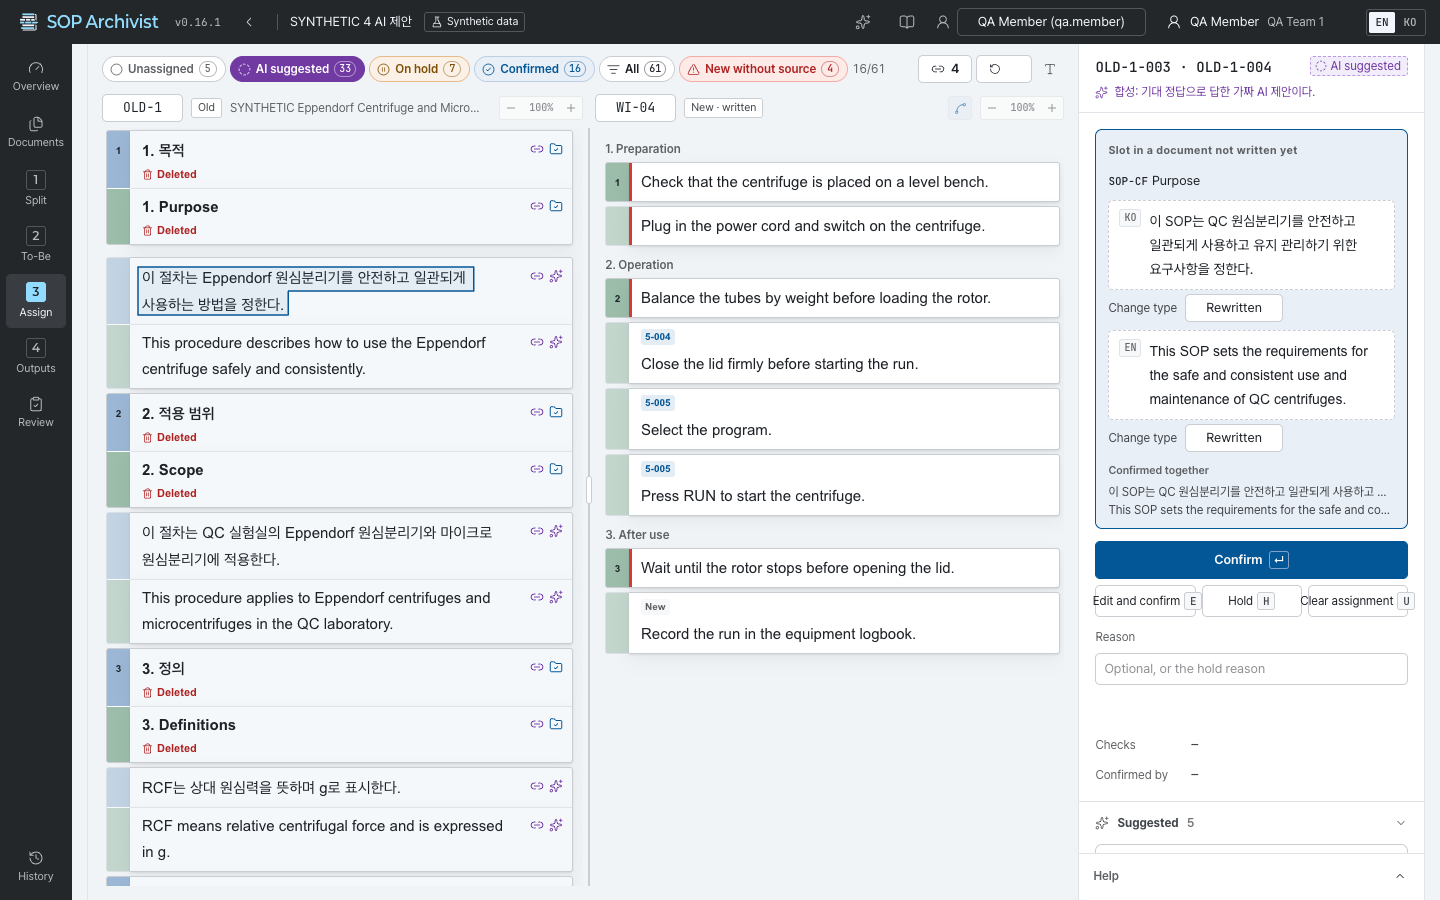
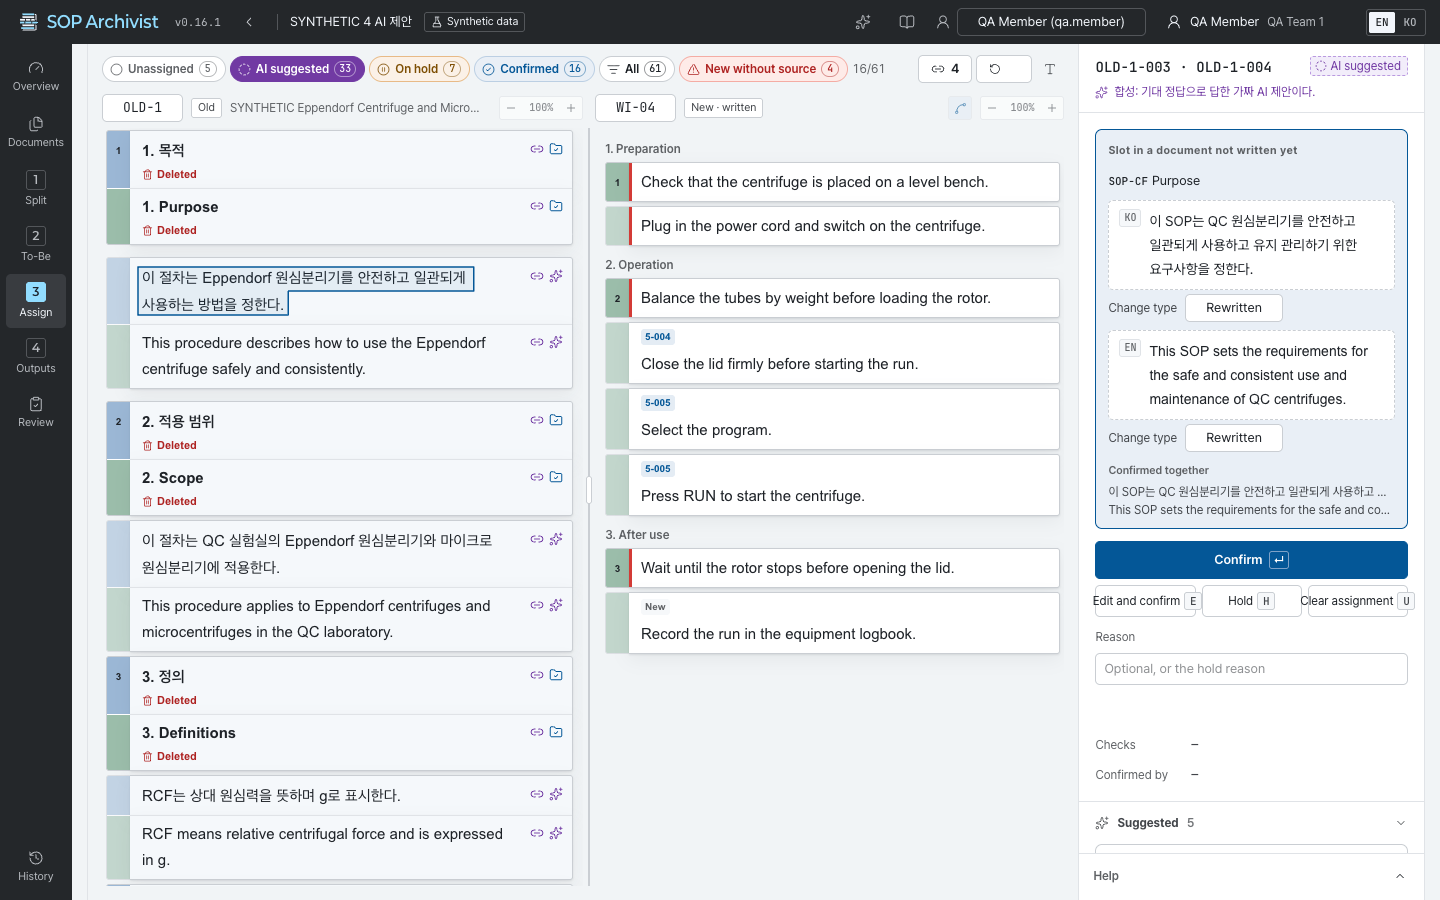
feat(assign): accent link lines that meet the boxes without dots — 연결선 강조 파랑·상자 테두리에 맞닿게
The teal-grey lines at 22% were hard to see. The user picked the accent blue mock-up (same color
as the link badge and source chips) and asked for the ends to stop at the box edges at the
chip/badge height instead of reaching into the chip, with no end dots. The chip-routing path
collapses to a single S-curve between the two box edges, and the unused --link-line token goes.

시안 B(배지·출처 칩과 같은 강조 파랑)로, 끝은 출처 칩·배지 높이에서 두 상자 테두리에 점 없이 맞닿는다.

Claude-Session: https://claude.ai/code/session_01YNNLvBNgNFiUZ73gyxco3h

Changed region(s): [[0.0625, 0.4356, 0.4062, 0.9956], [0.3438, 0.4356, 0.4062, 0.4667], [0.375, 0.6533, 0.4062, 0.6844]]

diff --git a/frontend/src/components/assign/link-lines.tsx b/frontend/src/components/assign/link-lines.tsx
@@ -1,4 +1,4 @@
-// Assign 두 문서 사이 이음 - 마우스를 올린 조각의 맞은편을 강조하고, 양쪽 끝이 다 보이는 이음만 옅은 선으로 그린다(Old 배지 → New 출처 칩 왼쪽, 길은 link-route-model).
+// Assign 두 문서 사이 이음 - 마우스를 올린 조각의 맞은편을 강조하고, 양쪽 끝이 다 보이는 이음만 옅은 선으로 그린다(Old 조각 오른쪽 바깥 배지 높이 → New 문단 상자 왼쪽 바깥 출처 칩 높이, 길은 link-route-model).
 // 강조 표시는 React 상태가 아니라 DOM 속성(data-link-hover)으로 단다 - Old 원문 조각이 수천 개일 때 올릴 때마다 용지 전체를 다시 그리지 않게.
 // 선은 스크롤·크기 변경·확대·세로선 끌기마다 다시 재되 한 프레임에 한 번으로 묶는다.
 "use client";
@@ -28,10 +28,6 @@ interface Hover {
 interface DrawnLine {
   key: string;
   d: string;
-  x1: number;
-  y1: number;
-  x2: number;
-  y2: number;
   strong: boolean;
   draft: boolean;
 }
@@ -124,30 +120,20 @@ export function LinkLines({ pairs, focusUnits, focusTargets, visible }: LinkLine
       const newEl = findNewLine(root, pair.targetId);
       const rowEl = newEl?.closest<HTMLElement>(".strip-row");
       if (!oldEl || !newEl || !rowEl) continue;
-      // 시작 - 배지(조각 오른쪽 아래)의 오른쪽 끝, 배지가 없으면(고르는 중인 이음) 조각 오른쪽 끝 첫 줄
+      // 두 끝 모두 상자 바깥 테두리 - 선이 배지·칩을 찌르지 않고 그 높이에서 상자에 닿는다
+      // 시작 - Old 조각 오른쪽 끝, 연결 배지(조각 오른쪽 아래) 높이. 배지가 없으면(고르는 중인 이음) 첫 줄 높이
       const badge = oldEl.querySelector<HTMLElement>("[data-link-badge]");
       const oldRect = oldEl.getBoundingClientRect();
       const badgeRect = badge?.getBoundingClientRect();
-      const start = badgeRect ? { x: badgeRect.right, y: badgeRect.top + badgeRect.height / 2 } : { x: oldRect.right, y: readAnchorY(oldRect) };
-      // 끝 - 출처 칩 왼쪽 가운데, 칩이 없으면(아직 출처가 아닌 후보) 줄 왼쪽 끝 첫 줄
-      const chip = findSourceChip(newEl, pair.unitId);
+      const start = { x: oldRect.right, y: badgeRect ? badgeRect.top + badgeRect.height / 2 : readAnchorY(oldRect) };
+      // 끝 - New 줄(탭 포함) 왼쪽 끝, 출처 칩 높이. 칩이 없으면(아직 출처가 아닌 후보) 첫 줄 높이
+      const chipRect = findSourceChip(newEl, pair.unitId)?.getBoundingClientRect();
       const rowRect = rowEl.getBoundingClientRect();
-      const chipRect = chip?.getBoundingClientRect();
-      const end = chipRect ? { x: chipRect.left, y: chipRect.top + chipRect.height / 2 } : { x: rowRect.left, y: readAnchorY(rowRect) };
+      const end = { x: rowRect.left, y: chipRect ? chipRect.top + chipRect.height / 2 : readAnchorY(rowRect) };
       // 양쪽 끝이 다 보일 때만 - 한쪽이 스크롤 밖이면 선이 문서 머리나 화면 밖으로 뻗는다
       if (start.y < oldFrame.top || start.y > oldFrame.bottom || end.y < newFrame.top || end.y > newFrame.bottom) continue;
       const shift = (point: { x: number; y: number }) => ({ x: point.x - base.left, y: point.y - base.top });
-      const a = shift(start);
-      const b = shift(end);
-      const d = buildLinkPath(a, {
-        end: b,
-        chipTop: (chipRect?.top ?? end.y) - base.top,
-        chipBottom: (chipRect?.bottom ?? end.y) - base.top,
-        rowLeft: rowRect.left - base.left,
-        rowTop: rowRect.top - base.top,
-        isFirst: !chip || chip.previousElementSibling === null,
-      });
-      next.push({ key: `${pair.unitId}:${pair.targetId}`, d, x1: a.x, y1: a.y, x2: b.x, y2: b.y, strong: pair.strong, draft: pair.draft });
+      next.push({ key: `${pair.unitId}:${pair.targetId}`, d: buildLinkPath(shift(start), shift(end)), strong: pair.strong, draft: pair.draft });
     }
     setLines((prev) => (JSON.stringify(prev) === JSON.stringify(next) ? prev : next));
   });
@@ -223,8 +209,6 @@ export function LinkLines({ pairs, focusUnits, focusTargets, visible }: LinkLine
       {lines.map((line) => (
         <g key={line.key} data-strong={line.strong ? "" : undefined} data-draft={line.draft ? "" : undefined}>
           <path d={line.d} />
-          <circle cx={line.x1} cy={line.y1} r={2.5} />
-          <circle cx={line.x2} cy={line.y2} r={2.5} />
         </g>
       ))}
     </svg>

diff --git a/frontend/src/lib/link-route-model.test.ts b/frontend/src/lib/link-route-model.test.ts
@@ -1,46 +1,34 @@
-// Assign 연결선 경로 - 맨 왼쪽 칩은 옆에서, 나머지는 위 틈이나 칩 줄 아래로 들어와 칩 왼쪽에서 끝난다.
+// Assign 연결선 경로 - 두 상자 바깥 테두리 사이의 S자, 두 끝에서 가로로 나고 들어간다.
 import { describe, expect, it } from "vitest";
 
-import { buildLinkPath, type RouteTarget } from "./link-route-model";
+import { buildLinkPath } from "./link-route-model";
 
-const target = (patch: Partial<RouteTarget>): RouteTarget => ({
-  end: { x: 300, y: 108 },
-  chipTop: 100,
-  chipBottom: 116,
-  rowLeft: 220,
-  rowTop: 94,
-  isFirst: false,
-  ...patch,
-});
-
-/** 경로에서 직선(L) 점만 뽑는다 */
-function readLinePoints(d: string): Array<[number, number]> {
-  return [...d.matchAll(/L(-?[\d.]+) (-?[\d.]+)/g)].map((m) => [Number(m[1]), Number(m[2])]);
+/** "M x y C c1x c1y c2x c2y x y"를 숫자 여덟 개로 */
+function readNumbers(d: string): number[] {
+  return [...d.matchAll(/-?[\d.]+/g)].map((m) => Number(m[0]));
 }
 
 describe("buildLinkPath", () => {
-  it("enters the first chip straight from the side at the chip's height", () => {
-    const d = buildLinkPath({ x: 100, y: 300 }, target({ isFirst: true }));
+  it("starts at the Old box edge and ends at the New box edge", () => {
+    const d = buildLinkPath({ x: 100, y: 300 }, { x: 160, y: 108 });
+    const n = readNumbers(d);
     expect(d.startsWith("M100 300C")).toBe(true);
-    // 띠(줄 왼쪽 4px 앞)에서 칩 높이로 맞춘 뒤 칩 왼쪽까지 가로로
-    expect(d).toContain(" 216 108L300 108");
+    expect(n.slice(-2)).toEqual([160, 108]);
   });
 
-  it("comes through the gap above the paragraph when the Old badge is higher", () => {
-    const d = buildLinkPath({ x: 100, y: 20 }, target({}));
-    const points = readLinePoints(d);
-    // 위 틈 y = 줄 위 끝 - 2, 칩 왼쪽 5px 앞에서 아래로 꺾고 칩 왼쪽에서 끝난다
-    expect(points[0]).toEqual([292, 92]);
-    expect(points.at(-1)).toEqual([300, 108]);
-    expect(d).toContain("Q295 92 295 95");
+  it("leaves and arrives horizontally, bending only between the two boxes", () => {
+    const n = readNumbers(buildLinkPath({ x: 100, y: 300 }, { x: 160, y: 108 }));
+    // 첫 조절점은 시작 높이, 둘째는 끝 높이 - 두 끝에서 가로
+    expect(n[3]).toBe(300);
+    expect(n[5]).toBe(108);
+    // 조절점이 두 상자 사이(100~160)에 있다
+    expect(n[2]).toBe(130);
+    expect(n[4]).toBe(130);
   });
 
-  it("comes between the chip row and the sentence when the Old badge is lower", () => {
-    const d = buildLinkPath({ x: 100, y: 500 }, target({}));
-    const points = readLinePoints(d);
-    // 칩 줄 아래 y = 칩 아래 끝 + 3, 위로 꺾는다
-    expect(points[0]).toEqual([292, 119]);
-    expect(d).toContain("Q295 119 295 116");
-    expect(points.at(-1)).toEqual([300, 108]);
+  it("keeps a short horizontal lead when the boxes are very close", () => {
+    const n = readNumbers(buildLinkPath({ x: 100, y: 0 }, { x: 104, y: 50 }));
+    expect(n[2]).toBe(110);
+    expect(n[4]).toBe(94);
   });
 });

diff --git a/frontend/src/lib/link-route-model.ts b/frontend/src/lib/link-route-model.ts
@@ -1,49 +1,15 @@
-// Assign 연결선 경로 - Old 배지(조각 오른쪽 아래)에서 New 출처 칩 왼쪽까지. 위아래 이동은 두 칸 사이 빈 띠에서만 하고 New 칸 안으로는 가로로만 들어가 본문 글을 가로지르지 않는다.
-// 맨 왼쪽 칩은 옆에서 바로, 그 밖의 칩은 Old 배지가 위면 문단 위 틈, 아래면 칩 줄과 문장 사이로 들어와 칩 사이에서 꺾은 뒤 칩 왼쪽으로 들어간다.
+// Assign 연결선 경로 - Old 조각 오른쪽 바깥(배지 높이)에서 New 문단 상자 왼쪽 바깥(출처 칩 높이)까지 옆으로 누운 S자 하나.
+// 두 끝 모두 상자 테두리에서 가로로 나고 들어가며 위아래 이동은 두 칸 사이에서만 해 본문 글을 가로지르지 않는다(2026-11-12, 칩 안까지 꺾어 들어가던 길을 걷었다).
 
 export interface RoutePoint {
   x: number;
   y: number;
 }
 
-export interface RouteTarget {
-  /** 칩 왼쪽 끝 x와 세로 가운데 y - 선의 도착점 */
-  end: RoutePoint;
-  /** 칩 위·아래 끝 */
-  chipTop: number;
-  chipBottom: number;
-  /** New 줄(탭 포함)의 왼쪽 끝과 위 끝 */
-  rowLeft: number;
-  rowTop: number;
-  /** 칩 줄의 첫 칩이면 옆에서 바로 들어온다 */
-  isFirst: boolean;
-}
+// 두 끝이 아주 가까워도 끝에서 가로로 나가는 거리(px) - 0이면 꺾인 모서리처럼 보인다
+const MIN_HANDLE = 10;
 
-// 띠에서 New 줄 왼쪽 끝까지 남기는 거리, 꺾는 모서리 반지름, 칩 왼쪽 앞 꺾는 자리(칩 사이 10px의 가운데) (px)
-const GUTTER_INSET = 4;
-const CORNER = 3;
-const LANE_INSET = 5;
-// 위 틈(4px)의 가운데, 칩 줄 아래 틈(6px)의 가운데 (px)
-const GAP_ABOVE = 2;
-const GAP_BELOW = 3;
-
-/** 시작점에서 띠 끝(gx, ty)까지 옆으로 누운 S자 */
-function buildCurve(start: RoutePoint, gx: number, ty: number): string {
-  const dx = Math.max(10, (gx - start.x) / 2);
-  return `M${start.x} ${start.y}C${start.x + dx} ${start.y} ${gx - dx} ${ty} ${gx} ${ty}`;
-}
-
-export function buildLinkPath(start: RoutePoint, target: RouteTarget): string {
-  const gx = target.rowLeft - GUTTER_INSET;
-  const { end } = target;
-  if (target.isFirst) return `${buildCurve(start, gx, end.y)}L${end.x} ${end.y}`;
-  const fromAbove = start.y < end.y;
-  const ty = fromAbove ? target.rowTop - GAP_ABOVE : target.chipBottom + GAP_BELOW;
-  const lane = end.x - LANE_INSET;
-  const s = fromAbove ? 1 : -1;
-  const r = Math.min(CORNER, Math.abs(end.y - ty) / 2);
-  return (
-    `${buildCurve(start, gx, ty)}L${lane - r} ${ty}Q${lane} ${ty} ${lane} ${ty + s * r}` +
-    `L${lane} ${end.y - s * r}Q${lane} ${end.y} ${lane + r} ${end.y}L${end.x} ${end.y}`
-  );
+export function buildLinkPath(start: RoutePoint, end: RoutePoint): string {
+  const dx = Math.max(MIN_HANDLE, (end.x - start.x) / 2);
+  return `M${start.x} ${start.y}C${start.x + dx} ${start.y} ${end.x - dx} ${end.y} ${end.x} ${end.y}`;
 }

diff --git a/frontend/src/styles/components.css b/frontend/src/styles/components.css
@@ -1302,14 +1302,14 @@
   /* 이동해 간 자리 - 잠깐 테두리가 번쩍인다 */
   [data-flash] { animation: link-flash 1.2s ease-out both; }
   @keyframes link-flash { 0%, 35% { outline: 2px solid var(--accent); outline-offset: 2px; } 100% { outline: 2px solid transparent; outline-offset: 2px; } }
-  /* 두 문서 사이 이음 선 - 옅게, 고른 것·마우스를 올린 것만 진하게. 아직 저장 안 한 고름은 점선 */
+  /* 두 문서 사이 이음 선 - 연결 배지·출처 칩·맞은편 강조와 같은 강조 파랑(시안 B, 2026-11-12). 쉴 때 옅게, 고른 것·마우스를 올린 것만 진하고 굵게. 아직 저장 안 한 고름은 점선.
+     끝 점 없이 두 상자 테두리에 맞닿는다(끝 모양 butt - round는 상자 안으로 반 굵기만큼 비어져 들어간다) */
   .link-lines { position: absolute; inset: 0; z-index: 3; width: 100%; height: 100%; overflow: visible; pointer-events: none; }
-  .link-lines g { color: var(--link-line); opacity: 0.22; }
-  .link-lines g[data-strong] { opacity: 0.85; }
-  .link-lines path { fill: none; stroke: currentColor; stroke-width: 1.25; }
-  .link-lines g[data-strong] path { stroke-width: 1.75; }
+  .link-lines g { color: var(--accent); opacity: 0.38; }
+  .link-lines g[data-strong] { opacity: 1; }
+  .link-lines path { fill: none; stroke: currentColor; stroke-width: 1.5; }
+  .link-lines g[data-strong] path { stroke-width: 2.25; }
   .link-lines g[data-draft] path { stroke-dasharray: 4 3; }
-  .link-lines circle { fill: currentColor; }
 
   /* 그 자리 메뉴 - Split "Split here" 상자처럼 조금 늦게 뜬다 */
   .link-menu { position: fixed; z-index: 40; display: grid; gap: 6px; padding: 6px; border: 1px solid var(--line-2); border-radius: var(--r-3); background: var(--raised); box-shadow: var(--shadow-2); font-family: var(--font-ui); white-space: nowrap; animation: cut-pop-in-fixed 200ms cubic-bezier(.16, 1, .3, 1) 380ms both; }

diff --git a/frontend/src/styles/tokens.css b/frontend/src/styles/tokens.css
@@ -122,8 +122,6 @@
   --tab-en: color-mix(in oklab, var(--lang-en) 42%, var(--paper));
   --tab-none: color-mix(in oklab, var(--ink) 8%, var(--paper));
   --tab-hold: oklch(.73 .16 80);
-  /* Assign 연결선 - 강조 파랑(--accent)과 다른 옅은 청록 회색. 투명도는 components.css .link-lines */
-  --link-line: oklch(.56 .05 195);
   --tab-ink: var(--ink);
 
   --tint: 11%;
@@ -196,7 +194,6 @@
   --tab-ko: color-mix(in oklab, var(--lang-ko) 46%, var(--paper));
   --tab-en: color-mix(in oklab, var(--lang-en) 46%, var(--paper));
   --tab-hold: oklch(.36 .08 80);
-  --link-line: oklch(.74 .05 195);
 
   --tint: 16%;
   --tint2: 32%;

diff --git a/PROGRESS.md b/PROGRESS.md
@@ -5,6 +5,7 @@
 ## 2026-11-12
 
 - **Split 틈 선·짝 간격·합치기 버퍼(브랜치 `feat/split-assign-visuals` → dev, v0.16.2)** — 사용자 요청: 틈에 그어지는 선이 거의 안 보임, 고른 조각 곁 간격이 경우마다 다름, 합치기 단추는 더 늦게·더 넓은 자리에서·머무는 동안 쉬머. 선은 1px 옅은 점선 → 2px 실선(강조색 70%, 못 합침은 회색 끊은 선). 간격은 묶음 1~5에서 경우별로 재 보니 그림·표·일반 문장은 위아래 12px로 같고 이웃한 한/영 짝만 고른 쪽 바깥만 벌어졌다 — 짝을 한 카드로 보고 위아래를 같이 벌린다(`selectedBlock`, Assign Old 용지에도 같이). 올림 자리는 실제로 위 조각 쪽 5px+틈 4px뿐이었다(다음 조각이 `::before`를 덮음) — 틈을 z-index 1로 올리고 위아래 조각 안쪽 10px(글줄 간격 안이라 글자·끝 아이콘 밖)까지 24px. 넓힌 만큼 스쳐도 오래 머물러 최소 머묾을 160 → 300ms로 올려 스쳐 열리는 빠르기를 예전(초당 약 56px)과 비슷한 60~80px로 맞췄고(초당 40~220px로 지나가며 잼), 틈이 벌어진 뒤 쉬머 300ms가 한 번 훑고 선·단추가 나온다(단추 약 0.75초, 움직임 줄이기면 쉬머 없이). 합치기 단추가 있는 틈에만.
+- **Assign 연결선 색·끝(같은 브랜치)** — 사용자 요청: 연결선을 더 눈에 띄게, 시안 먼저. 실제 화면에 CSS를 주입해 찍은 시안 셋(청록 진하게·강조 파랑·선명한 청록+맞은편 청록) 중 사용자가 B(배지·출처 칩과 같은 강조 파랑, 쉼 38%·올림 100%, 1.5/2.25px)를 골랐고, 끝은 칩을 찌르지 않고 출처 칩 높이에서 문단 상자 바깥에, 끝 점 없이(사용자). Old 쪽도 같은 모양으로 배지 높이의 조각 오른쪽 테두리에서 나가게 했다(내 판단 — 선이 배지를 지나 상자 테두리를 넘지 않게). 칩 사이로 꺾어 들어가던 길(`link-route-model`)은 S자 하나로 줄었고 `--link-line` 토큰을 지웠다. 설명서 Assign 그림 6장(짝 간격 변화 포함)만 다시 뽑았다 — 나머지는 시각·번호 잡음이라 되돌림.
 
 - **화면 검토 반영 6~10/14 (브랜치 `fix/screen-review` → dev, v0.16.1)** — Assign(그 자리 메뉴를 줄 상자 기준 순수 함수 `placeLinkMenu`로 — 이은 두 줄을 덮지 않고, 화면보다 긴 줄에서는 누른 y 근처로 화면 안에, 패널 `clamp(280px,24vw,420px)`·Assign만 `--page-max-desk` 1920, 도구 줄은 1200px 미만에서 오른쪽 단추를 아이콘+툴팁으로 줄여 AI 켠 1440에서도 한 줄, 트리 코드 말줄임은 키보드 포커스에도 전체 글 `Truncate revealOnFocus`, 사유 칸 textarea), R8 사용자 결정(1280 미만 Split 문서 목록 232→216px — 긴 문단 326→342px, 기준 340 유지), 개요(장비 SOP 칸 안내 묶기 `groupNotices`·검토 요청 단추를 위로, 빈 Bundle 중립 한 줄, 되돌림 사유 흐림+더 보기), 없는 주소 화면(`not-found.tsx`)과 못 여는 Bundle(여섯 단계 화면 `BundleLoadError`, 403·404 판정 `isBundleUnavailable` 하나를 셸·상단 바가 같이 써 레일·뒤로를 숨김 — 일시 500은 그대로), 검토 화면 되돌림 쪽지(1280 이상 오른쪽 열), Bundle 카드 뼈대·이름 없음·경로→폭 `getPageWidth`(목록 화면 1600). 가짜 AI를 켠 backend에서 Assign 도구 줄을 따로 쟀다(AI 메뉴가 더해져 1440 60px → 아이콘 축소로 해결). 도중에 dev(v0.15.2 Split 틈·조각 단추 줄, v0.16.0 릴리스)를 두 번 합쳤다. 최종 검토로 카드 meta가 auto 여백 둘 사이에 뜨던 것·To-Be 비멤버 출구 없음·메뉴 화면 밖 등 6건을 고쳤다. 감사 F1은 AI 메뉴가 없으면 SKIP. Task 11~14는 다음 세션.
   - SOP 스모크 Split 합치기 되돌리기 시간 초과는 스모크 경합이었다 — 나눈 뒤 고른 조각 아래 단추 줄(`Collapse appear`)이 펼쳐지며 아래 틈을 33px 밀어 160ms 머묾 전에 포인터 밑에서 빠졌다(origin/dev 코드에서도 4번 중 1번 실패, 이 브랜치는 4/4). 제품은 그대로 두고 스모크가 단추 줄이 다 펼쳐진 뒤 틈에 올리게 했다.
